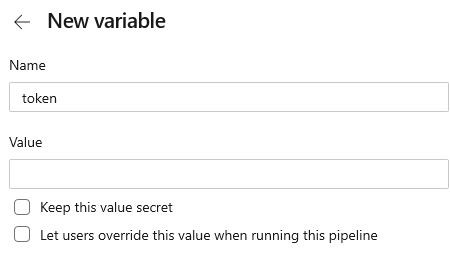
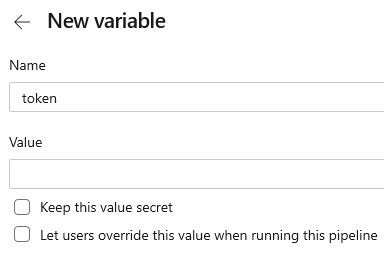
Adding changes from build AngularDocFX_EN_2020.6.4.1

diff --git a/en/components/general-licensing.md b/en/components/general-licensing.md
@@ -38,13 +38,13 @@ This will allow you to seamlessly use a mix of packages from the public npm regi
 
 #### Now, to log in to our private feed using npm, run the adduser command and specify a user account and password:
 
-<pre style="background:#141414;color:white;display:inline-block;padding:10px;margin-top:10px;font-family:'Consolas';border-radius:5px;width:100%">
+<pre style="background:#141414;color:white;display:inline-block;padding:16x;margin-top:10px;font-family:'Consolas';border-radius:5px;width:100%">
 npm adduser --registry=https://packages.infragistics.com/npm/js-licensed/ --scope=@infragistics --always-auth
 </pre>
 
 #### After this is done, you will be logged in and you will be able to install the latest versions of the Ignite UI packages into your project:
 
-<pre style="background:#141414;color:white;display:inline-block;padding:10px;margin-top:10px;font-family:'Consolas';border-radius:5px;width:100%">
+<pre style="background:#141414;color:white;display:inline-block;padding:16x;margin-top:10px;font-family:'Consolas';border-radius:5px;width:100%">
 npm uninstall igniteui-dockmanager
 npm install @infragistics/igniteui-dockmanager
 </pre>
@@ -57,8 +57,30 @@ If you are upgrading from trial to licensed package:
 
 -   Add a **paths** mapping in the project **tsconfig.json**.
 
+```json
+{
+  /* ... */
+  "compilerOptions": {
+    "baseUrl": "./",
+    "outDir": "./dist/out-tsc",
+    /* ... */
+    "paths": {
+      "igniteui-dockmanager": ["./node_modules/@infragistics/igniteui-dockmanager"],
+      "igniteui-dockmanager/*": ["./node_modules/@infragistics/igniteui-dockmanager/*"],
+    }
+  }
+}
+```
 
 -   Change the themes imports like this:
+
+```ts
+@import '~igniteui-dockmanager/dist/collection/styles/igc.themes';
+
+// Should be changed to
+
+@import '~@infragistics/igniteui-dockmanager/dist/collection/styles/igc.themes';
+```
 
 So, if you've already adopted npm and you have an Ignite UI for Angular license, don't hesitate setting up the Infragistics private feed and boost your productivity, using the full potential of Ignite UI for Angular.
 
@@ -70,34 +92,34 @@ The following information is on how to setup authentication to our private npm r
 
 -   Generate a token from <https://account.infragistics.com/access-tokens>
 
-<img class="responsive-img" style="-webkit-box-shadow: 8px 9px 9px 5px #ccc; -moz-box-shadow: 8px 9px 9px 5px #ccc; box-shadow: 8px 9px 9px 5px #ccc; width: calc(100% - 250px)"
+<img class="responsive-img" style="margin-bottom:10px; -webkit-box-shadow: 4px 4px 4px 4px #ccc; -moz-box-shadow: 4px 4px 4px 4px #ccc; box-shadow: 4px 4px 4px 4px #ccc; max-width: 600px"
   src="../images/general/generate-token.jpg"
   data-src="../images/general/generate-token.jpg"
   alt="New Token Generated"
   title="Generate new token" />
 
-> Each token is with Base64 encoding.
+> Note: each token is with Base64 encoding.
 
 -   Add the following into your [.npmrc](https://docs.npmjs.com/configuring-npm/npmrc.html) file
 
-<pre style="background:#141414;color:white;display:inline-block;padding:10px;margin-top:10px;font-family:'Consolas';border-radius:5px;width:100%">
+```json
 @infragistics:registry=https://packages.infragistics.com/npm/js-licensed/
 //packages.infragistics.com/npm/js-licensed/:_auth={YOUR_ACCESS_TOKEN}
 //packages.infragistics.com/npm/js-licensed/:username:{YOUR_USERNAME}
 //packages.infragistics.com/npm/js-licensed/:always-auth=true
-</pre>
+```
 
 ### Azure Pipelines Configuration
 
 Update the azure-pipelines.yml with the following steps:
 
-<pre style="background:#141414;color:white;display:inline-block;padding:10px;margin-top:10px;font-family:'Consolas';border-radius:5px;width:100%">
+<pre style="background:#141414;color:white;display:inline-block;padding:16x;margin-top:10px;font-family:'Consolas';border-radius:5px;width:100%">
 npm config set @infragistics:registry $(npmRegistry)
 npm config set always-auth true --scope:@infragistics
 npm config set _auth=$(token) --scope:@infragistics
 </pre>
 
-<img class="responsive-img" style="-webkit-box-shadow: 8px 9px 9px 5px #ccc; -moz-box-shadow: 8px 9px 9px 5px #ccc; box-shadow: 8px 9px 9px 5px #ccc; min-width: calc(100% - 450px)"
+<img class="responsive-img" style="margin-bottom:10px; -webkit-box-shadow: 4px 4px 4px 4px #ccc; -moz-box-shadow: 4px 4px 4px 4px #ccc; box-shadow: 4px 4px 4px 4px #ccc; max-width: 380px"
   src="../images/general/azure-ci-pipelines-ci-yml-3.jpg"
   data-src="../images/general/azure-ci-pipelines-ci-yml-3.jpg"
   alt="Azure Pipelines CI yml update"
@@ -105,13 +127,13 @@ npm config set _auth=$(token) --scope:@infragistics
 
 Add **npm registry** and **token** variables.
 
-<img class="responsive-img" style="-webkit-box-shadow: 8px 9px 9px 5px #ccc; -moz-box-shadow: 8px 9px 9px 5px #ccc; box-shadow: 8px 9px 9px 5px #ccc; min-width: calc(100% - 650px)"
+<img class="responsive-img" style="margin-bottom:10px; -webkit-box-shadow: 4px 4px 4px 4px #ccc; -moz-box-shadow: 4px 4px 4px 4px #ccc; box-shadow: 4px 4px 4px 4px #ccc; max-width: 600px"
   src="../images/general/azure-ci-new-variable-2.jpg"
   data-src="../images/general/azure-ci-new-variable-2.jpg"
   alt="Set npm Registry and token variables"
   title="Set npm Registry and token variables" />
 
-<img class="responsive-img" style="-webkit-box-shadow: 8px 9px 9px 5px #ccc; -moz-box-shadow: 8px 9px 9px 5px #ccc; box-shadow: 8px 9px 9px 5px #ccc; min-width: calc(100% - 650px)"
+<img class="responsive-img" style="margin-bottom:10px; -webkit-box-shadow: 4px 4px 4px 4px #ccc; -moz-box-shadow: 4px 4px 4px 4px #ccc; box-shadow: 4px 4px 4px 4px #ccc; max-width: 380px"
   src="../images/general/azure-ci-add-token-variable-1.jpg"
   data-src="../images/general/azure-ci-add-token-variable-1.jpg"
   alt="npm Registry and token variables"
@@ -121,12 +143,12 @@ Add **npm registry** and **token** variables.
 
 We will follow almost the same approach here, the only difference would be that the configuration will be set on [before\_install](https://docs.travis-ci.com/user/job-lifecycle/#the-job-lifecycle)
 
-<pre style="background:#141414;color:white;display:inline-block;padding:10px;margin-top:10px;font-family:'Consolas';border-radius:5px;width:100%">
+```json
 before_install:
 - echo "@infragistics:registry=https://packages.infragistics.com/npm/js-licensed/" >> ~/.npmrc
 - echo "//packages.infragistics.com/npm/js-licensed/:_auth=$TOKEN" >> ~/.npmrc
 - echo "//packages.infragistics.com/npm/js-licensed/:always-auth=true" >> ~/.npmrc
-</pre>
+```
 
 The best way to define an environment variable depends on what type of information it will contain, so [you have two options](https://docs.travis-ci.com/user/environment-variables/):
 

diff --git a/en/components/general-getting-started.md b/en/components/general-getting-started.md
@@ -58,7 +58,7 @@ Lastly,  -->
 
 If you want to use Ignite UI for Angular in an existing Angular CLI project (one that you have from before). We have you covered! All you have to do is execute these commands:
 
-<pre style="background:#141414;color:white;display:inline-block;padding:10px;margin-top:10px;font-family:'Consolas';border-radius:5px;width:100%">
+<pre style="background:#141414;color:white;display:inline-block;padding:16x;margin-top:10px;font-family:'Consolas';border-radius:5px;width:100%">
 npm install --save igniteui-angular-charts igniteui-angular-core
 npm install --save igniteui-angular-excel igniteui-angular-core
 npm install --save igniteui-angular-gauges igniteui-angular-core
@@ -69,7 +69,7 @@ npm install --save igniteui-angular-spreadsheet igniteui-angular-core
 
 Or
 
-<pre style="background:#141414;color:white;display:inline-block;padding:10px;margin-top:10px;font-family:'Consolas';border-radius:5px;width:100%">
+<pre style="background:#141414;color:white;display:inline-block;padding:16x;margin-top:10px;font-family:'Consolas';border-radius:5px;width:100%">
 yarn add igniteui-angular-charts igniteui-angular-core
 yarn add igniteui-angular-excel igniteui-angular-core
 yarn add igniteui-angular-gauges igniteui-angular-core
@@ -92,7 +92,7 @@ We are now ready to use the Ignite UI for Angular map component in our markup! L
 
 Finally, we can run our new application by using one of the following commands:
 
-<pre style="background:#141414;color:white;display:inline-block;padding:10px;margin-top:10px;font-family:'Consolas';border-radius:5px;width:100%">
+<pre style="background:#141414;color:white;display:inline-block;padding:16x;margin-top:10px;font-family:'Consolas';border-radius:5px;width:100%">
 npm run-script start
 </pre>
 

diff --git a/en/components/spreadsheet_overview.md b/en/components/spreadsheet_overview.md
@@ -22,7 +22,7 @@ The Angular Spreadsheet component allows visualizing and editing of spreadsheet 
 
 When installing the spreadsheet package, the core and excel package must also be installed.
 
-<pre style="background:#141414;color:white;display:inline-block;padding:10px;margin-top:10px;font-family:'Consolas';border-radius:5px;width:100%">
+<pre style="background:#141414;color:white;display:inline-block;padding:16x;margin-top:10px;font-family:'Consolas';border-radius:5px;width:100%">
 npm install --save igniteui-angular-core
 npm install --save igniteui-angular-excel
 npm install --save igniteui-angular-spreadsheet

diff --git a/en/components/geo-map.md b/en/components/geo-map.md
@@ -32,7 +32,7 @@ The map provides customizable navigation behaviors for navigating map content us
 
 To use the geographic map component, you need to first install these packages:
 
-<pre style="background:#141414;color:white;display:inline-block;padding:10px;margin-top:10px;font-family:'Consolas';border-radius:5px;width:100%">
+<pre style="background:#141414;color:white;display:inline-block;padding:16x;margin-top:10px;font-family:'Consolas';border-radius:5px;width:100%">
 npm install --save igniteui-angular-core
 npm install --save igniteui-angular-charts
 npm install --save igniteui-angular-maps

diff --git a/en/components/sparkline.md b/en/components/sparkline.md
@@ -28,7 +28,7 @@ The sparkline control has several visual elements and corresponding features tha
 
 In order to use the Ignite UI for Angular sparkline component, the following packages need to be installed:
 
-<pre style="background:#141414;color:white;display:inline-block;padding:10px;margin-top:10px;font-family:'Consolas';border-radius:5px;width:100%">
+<pre style="background:#141414;color:white;display:inline-block;padding:16x;margin-top:10px;font-family:'Consolas';border-radius:5px;width:100%">
 npm install --save igniteui-angular-core
 npm install --save igniteui-angular-charts
 </pre>

diff --git a/en/components/data-chart.md b/en/components/data-chart.md
@@ -27,7 +27,7 @@ The Angular data chart is a charting component that provides modular design of a
 
 When installing the data chart package, the core package must also be installed.
 
-<pre style="background:#141414;color:white;display:inline-block;padding:10px;margin-top:10px;font-family:'Consolas';border-radius:5px;width:100%">
+<pre style="background:#141414;color:white;display:inline-block;padding:16x;margin-top:10px;font-family:'Consolas';border-radius:5px;width:100%">
 npm install --save igniteui-angular-core
 npm install --save igniteui-angular-charts
 </pre>

diff --git a/en/components/doughnut-chart.md b/en/components/doughnut-chart.md
@@ -28,7 +28,7 @@ The Ignite UI for Angular doughnut chart component is similar to the Pie Chart c
 
 When installing the charts package, the core package must also be installed.
 
-<pre style="background:#141414;color:white;display:inline-block;padding:10px;margin-top:10px;font-family:'Consolas';border-radius:5px;width:100%">
+<pre style="background:#141414;color:white;display:inline-block;padding:16x;margin-top:10px;font-family:'Consolas';border-radius:5px;width:100%">
 npm install --save igniteui-angular-core
 npm install --save igniteui-angular-charts
 </pre>

diff --git a/en/components/pie-chart.md b/en/components/pie-chart.md
@@ -29,7 +29,7 @@ This control is used for representing categorical data. It is most effective whe
 
 When installing the charts package, the core package must also be installed.
 
-<pre style="background:#141414;color:white;display:inline-block;padding:10px;margin-top:10px;font-family:'Consolas';border-radius:5px;width:100%">
+<pre style="background:#141414;color:white;display:inline-block;padding:16x;margin-top:10px;font-family:'Consolas';border-radius:5px;width:100%">
 npm install --save igniteui-angular-core
 npm install --save igniteui-angular-charts
 </pre>

diff --git a/en/components/bullet-graph.md b/en/components/bullet-graph.md
@@ -33,7 +33,7 @@ The features of the bullet graph include configurable orientation and direction,
 
 When installing the gauge package, the core package must also be installed.
 
-<pre style="background:#141414;color:white;display:inline-block;padding:10px;margin-top:10px;font-family:'Consolas';border-radius:5px;width:100%">
+<pre style="background:#141414;color:white;display:inline-block;padding:16x;margin-top:10px;font-family:'Consolas';border-radius:5px;width:100%">
 npm install --save igniteui-angular-core
 npm install --save igniteui-angular-gauges
 </pre>

diff --git a/en/components/category-chart.md b/en/components/category-chart.md
@@ -46,7 +46,7 @@ Another example of the intuitive behavior of the category chart component is tha
 
 When installing the chart package, the core package must also be installed.
 
-<pre style="background:#141414;color:white;display:inline-block;padding:10px;margin-top:10px;font-family:'Consolas';border-radius:5px;width:100%">
+<pre style="background:#141414;color:white;display:inline-block;padding:16x;margin-top:10px;font-family:'Consolas';border-radius:5px;width:100%">
 npm install --save igniteui-angular-core
 npm install --save igniteui-angular-charts
 </pre>

diff --git a/en/components/financial-chart.md b/en/components/financial-chart.md
@@ -49,7 +49,7 @@ Refer to the [Financial Chart Panes](financial-chart-panes.md) topics for  infor
 
 When installing the chart package, the core package must also be installed.
 
-<pre style="background:#141414;color:white;display:inline-block;padding:10px;margin-top:10px;font-family:'Consolas';border-radius:5px;width:100%">
+<pre style="background:#141414;color:white;display:inline-block;padding:16x;margin-top:10px;font-family:'Consolas';border-radius:5px;width:100%">
 npm install --save igniteui-angular-core
 npm install --save igniteui-angular-charts
 </pre>

diff --git a/en/components/linear-gauge.md b/en/components/linear-gauge.md
@@ -31,7 +31,7 @@ The following sample demonstrates how setting multiple properties on the same li
 
 When installing the gauge package, the core package must also be installed.
 
-<pre style="background:#141414;color:white;display:inline-block;padding:10px;margin-top:10px;font-family:'Consolas';border-radius:5px;width:100%">
+<pre style="background:#141414;color:white;display:inline-block;padding:16x;margin-top:10px;font-family:'Consolas';border-radius:5px;width:100%">
 npm install --save igniteui-angular-core
 npm install --save igniteui-angular-gauges
 </pre>
